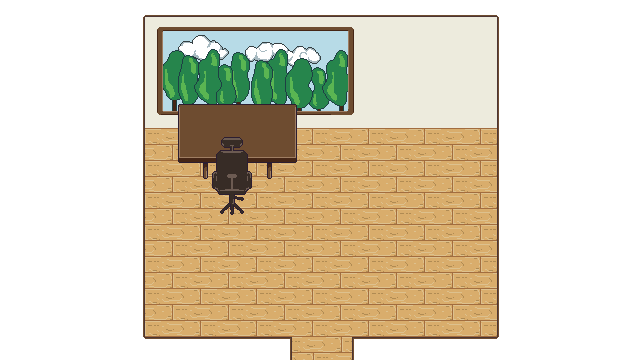
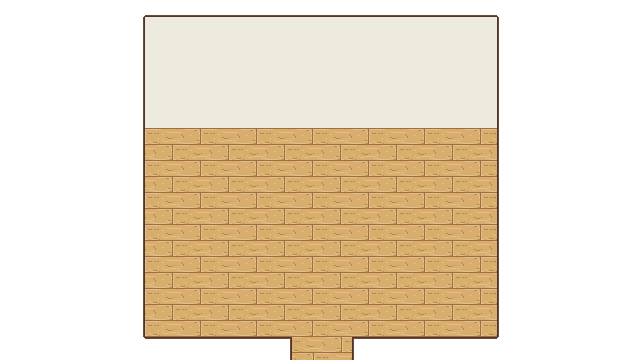
seperated assets and adjusted depth

Changed region(s): [[0.2188, 0.0611, 0.5625, 0.6111]]

diff --git a/css/layout.css b/css/layout.css
@@ -40,14 +40,19 @@
 }
 
 /* Object positions */
-#laptop    { left: 190px; top: 70px; }
+#laptop    { left: 190px; top: 70px; z-index: 7;}
 #mood      { left: 430px; top: 40px; position: absolute; }
-#me        { left: 300px; top: 120px; }
+#me        { left: 300px; top: 120px; z-index: 6;}
 #todo      { left: 440px; top: 95px; position: absolute; }
 #painting  { left: 350px; top: 50px; }
-#plant     { left: 150px; top: 202px; position: absolute; }
-#tea       { left: 428px; top: 145px; position: absolute; }
-#guestbook { left: 448px; top: 147px; position: absolute; }
+#plant     { left: 150px; top: 202px; position: absolute; z-index: 6;}
+#tea       { left: 428px; top: 145px; position: absolute; z-index: 7;}
+#guestbook { left: 448px; top: 147px; position: absolute; z-index: 7;}
+#chair     { left: 210px; top: 130px; position: absolute; z-index: 8;}
+#coffeetable { left: 400px; top: 145px; position: absolute; z-index: 6;}
+#table     { left: 170px; top: 100px; position: absolute; z-index: 6;}
+#carpet    { left: 390px; top: 135px; position: absolute; }
+#windowonwall { left: 155px; top: 30px; position: absolute; }
 
 #mark {
     position: absolute;
@@ -74,7 +79,7 @@
 #mood-img { width: 40px; padding-left: 11px; }
 
 /* Grass pot */
-#grasspot { left: 205px; top: 254px; position: absolute; }
+#grasspot { left: 205px; top: 254px; position: absolute; z-index: 6;}
 
 .grass {
     position: absolute;

diff --git a/index.html b/index.html
@@ -10,15 +10,31 @@
 <body>
 
     <div id="scene" class="game-layer">
-        <img src="assets/bg_2.23.png" id="background" alt="Room Background" />
+        <img src="assets/bg.png" id="background" alt="Room Background" />
 
         <!-- <div id="construction">
             <img src="assets/construction.png" alt="Construction" />
         </div>   -->
 
-        <!-- <div id="carpet">
+        <div id="carpet">
             <img src="assets/carpet.png" alt="Carpet" />
-        </div>  -->
+        </div> 
+
+        <div id="coffeetable">
+            <img src="assets/coffeetable.png" alt="Coffeetable" />
+        </div> 
+
+        <div id="table">
+            <img src="assets/table.png" alt="Table" />
+        </div> 
+
+        <div id="chair">
+            <img src="assets/chair.png" alt="Chair" />
+        </div>
+        
+        <div id="windowonwall">
+            <img src="assets/window.png" alt="Window" />
+        </div>
 
         <div id="tea">
             <img src="assets/tea.png" alt="Tea" />
